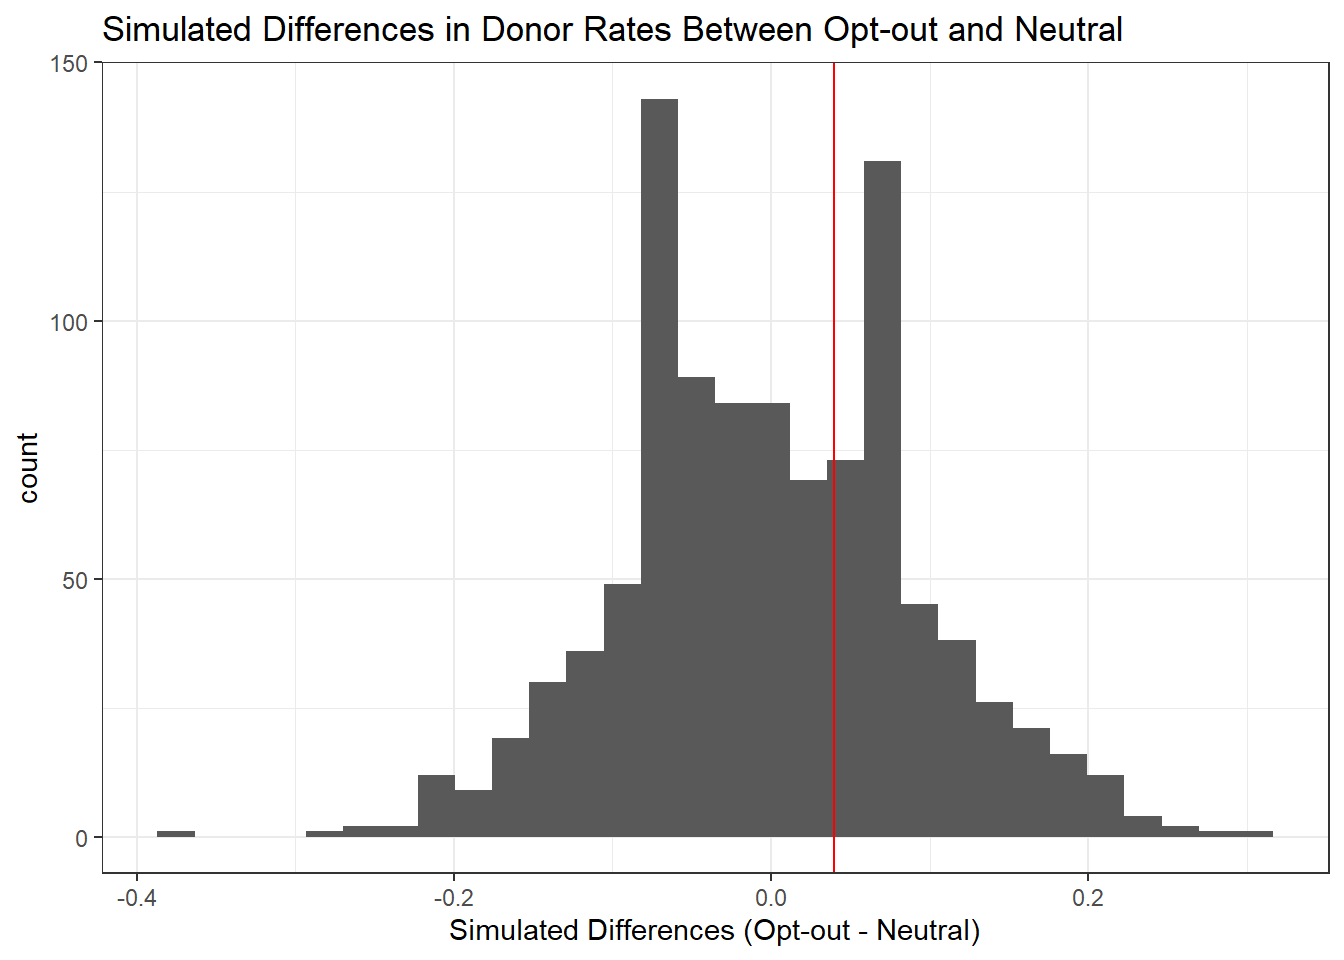
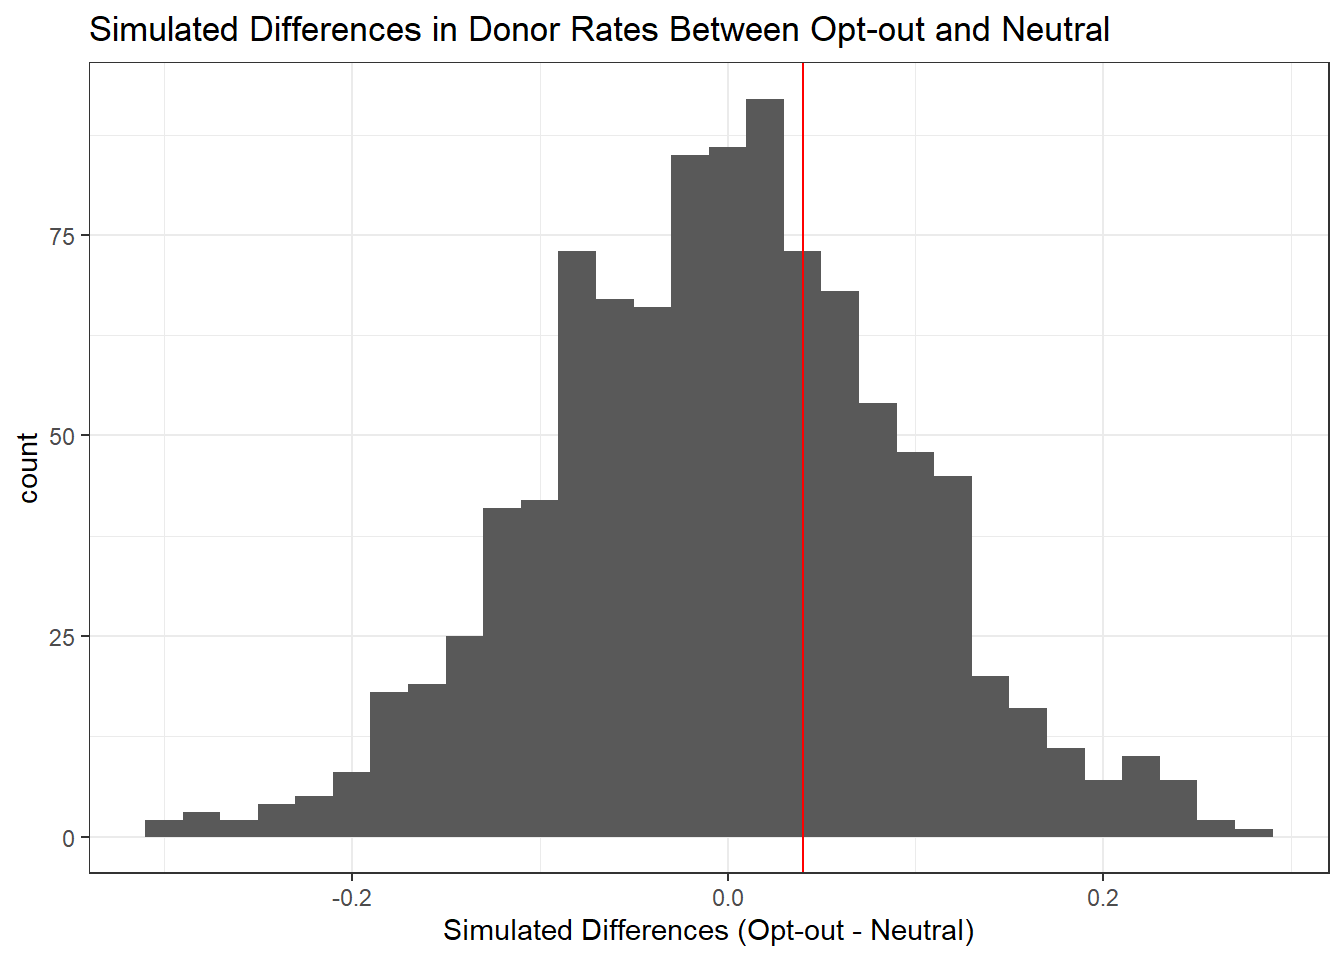
final edits on simulation

diff --git a/docs/simulation.html b/docs/simulation.html
@@ -148,7 +148,7 @@ ul.task-list li input[type="checkbox"] {
 <pre><code>[1] 0</code></pre>
 </div>
 </div>
-<p>The plot depicts a histogram of the 1000 simulated chi-squared values for the data. The histogram is skewed right, which is expected for a chi-squared distribution. The red line marks the chi-squared statistic for the observed data which is 22.1. The difference between the simulated chi-squared values and the observed value, along with the p value &lt; 0.05 tells us there is significant evidence that the different options of opt-in, opt-out, and neutral have an effect on whether or not individuals decide to be a donor.</p>
+<p>The plot depicts a histogram of the 1000 simulated chi-squared values for the data. The histogram is skewed right, which is expected for a chi-squared distribution. The red line marks the chi-squared statistic for the observed data which is 22.1. The p value (stated above) is &lt; 0.05 which tells us there is a significant difference between the simulated and observed chi-squared statistics. There is significant evidence that the different options of opt-in, opt-out, and neutral do have an effect on whether or not individuals decide to be a donor.</p>
 <p>Then I decided to look specifically at the effect of Opt-in or Opt-out when compared to Neutral.</p>
 <div class="cell">
 <div class="cell-output-display">
@@ -158,17 +158,17 @@ ul.task-list li input[type="checkbox"] {
 <pre><code>[1] 0</code></pre>
 </div>
 </div>
-<p>The plot depicts a histogram of the 1000 simulated differences between the rate of donors when given the option to opt-in to being a donor compared to when the option is neutral. The histogram is approximately normal and centered at zero. The red line marks the observed difference between opt-in and neutral which is -0.36. This means that from the observed data, when the option is neutral we can expect donor rates to be 36% higher than when participants have to opt-in to being a donor. Additionally, the p value is &lt; 0.05 which means there is a significant difference between the two groups.</p>
+<p>The plot depicts a histogram of the 1000 simulated differences between the rate of donors when given the option to opt-in to being a donor compared to when the option is neutral. The histogram is approximately normal and centered at zero. The red line marks the observed difference between opt-in and neutral which is -0.36. This means that from the observed data, when the option is neutral we can expect donor rates to be 36% higher than when participants have to opt-in to being a donor. Additionally, the p value (stated above) is &lt; 0.05 which means there is a significant difference between the two groups.</p>
 <div class="cell">
 <div class="cell-output-display">
 <p><img src="simulation_files/figure-html/unnamed-chunk-13-1.png" class="img-fluid" width="672"></p>
 </div>
 <div class="cell-output cell-output-stdout">
-<pre><code>[1] 0.763</code></pre>
+<pre><code>[1] 0.737</code></pre>
 </div>
 </div>
-<p>The plot depicts a histogram of the 1000 simulated differences between the rate of donors when given the option to opt-out to being a donor compared to when the option is neutral. The histogram is approximately normal and centered at zero. The red line marks the observed difference between opt-out and neutral which is 0.04. This means that from the observed data, when the option is neutral we can expect donor rates to be 4% lower than when participants have to opt-out of being a donor. Additionally, the p value is &gt; 0.05 which means there is not a significant difference between the two groups.</p>
-<p>In conclusion, the Chi-Squared test told us that the choice to be a donor is definitely related to the different options that are given. When taking a closer look at the different options, we can conclude that there is a significant difference in donor rates between the options of opt-in and neutral. There is not a significant difference in donor rates between opt-out and neutral. Therefore, if a state wanted to increase donor rates, based off this study and the simulation, they should either have citizens choose to opt-out of being a donor or phrase the question in a neutral way.</p>
+<p>The plot depicts a histogram of the 1000 simulated differences between the rate of donors when given the option to opt-out to being a donor compared to when the option is neutral. The histogram is approximately normal and centered at zero. The red line marks the observed difference between opt-out and neutral which is 0.04. This means that from the observed data, when the option is neutral we can expect donor rates to be 4% lower than when participants have to opt-out of being a donor. Additionally, the p value (stated above) is &gt; 0.05 which means there is not a significant difference between the two groups.</p>
+<p>In conclusion, the Chi-Squared test told us that the choice to be a donor is definitely related to the different options that are given. When taking a closer look at the different options, we can conclude that there is a significant difference in donor rates between the options of opt-in and neutral. There is not a significant difference in donor rates between opt-out and neutral. Therefore, if a state wanted to have high donor rates, based off this study and the simulation, they should either make citizens have to opt-out of being a donor or phrase the question in a neutral way.</p>
 
 
 
